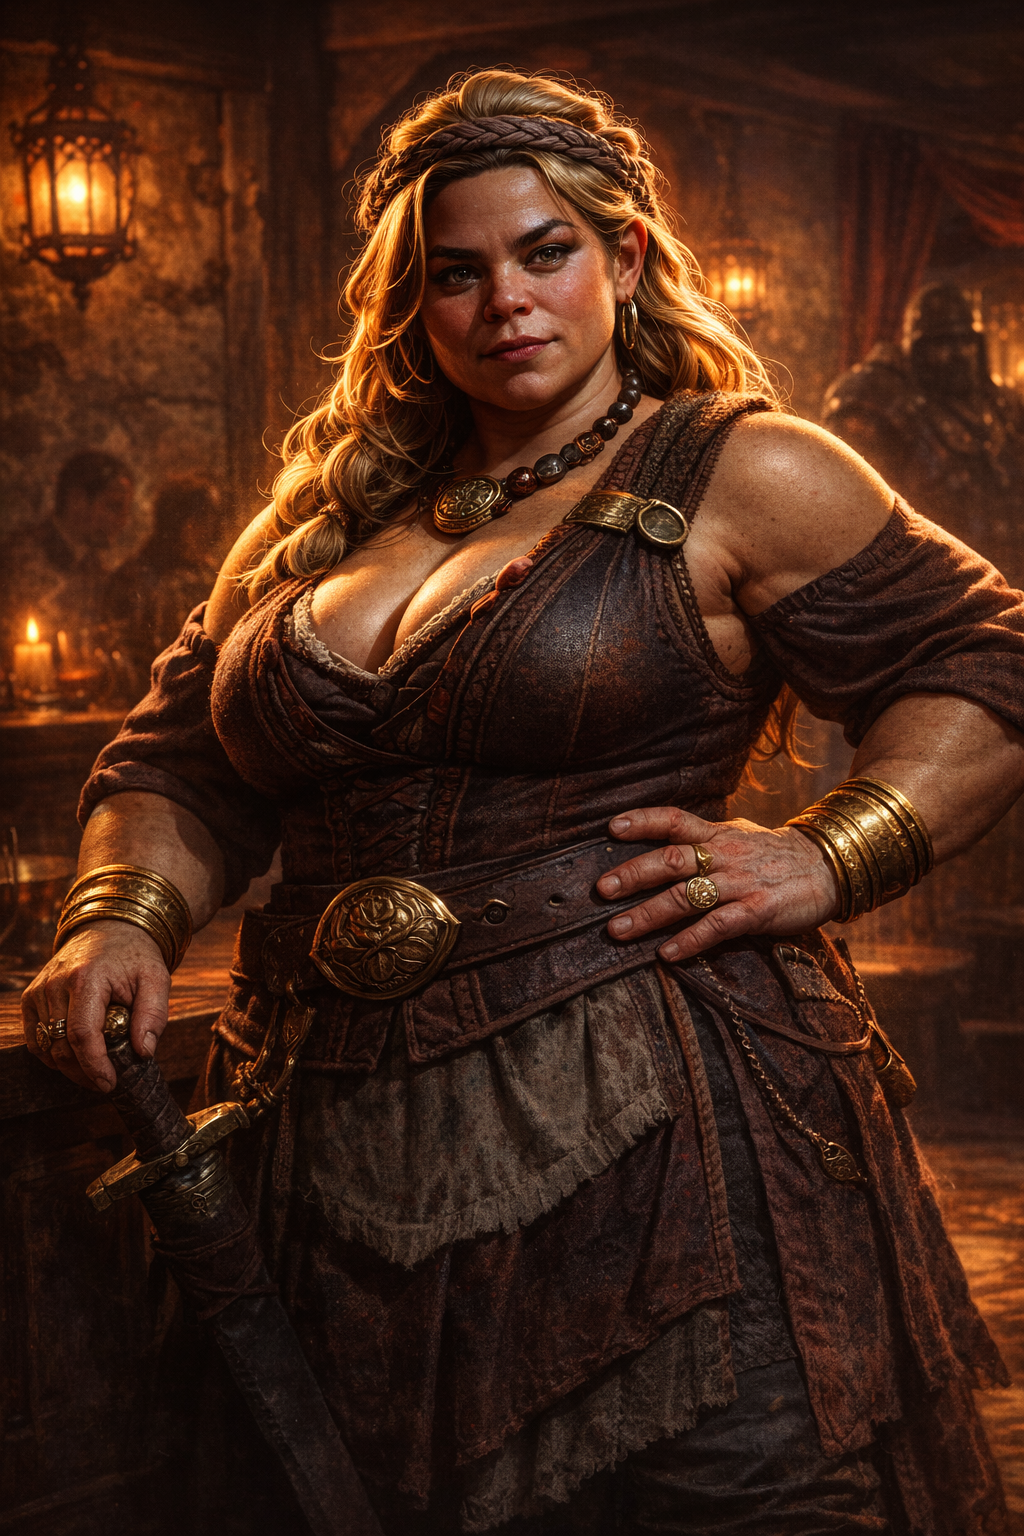
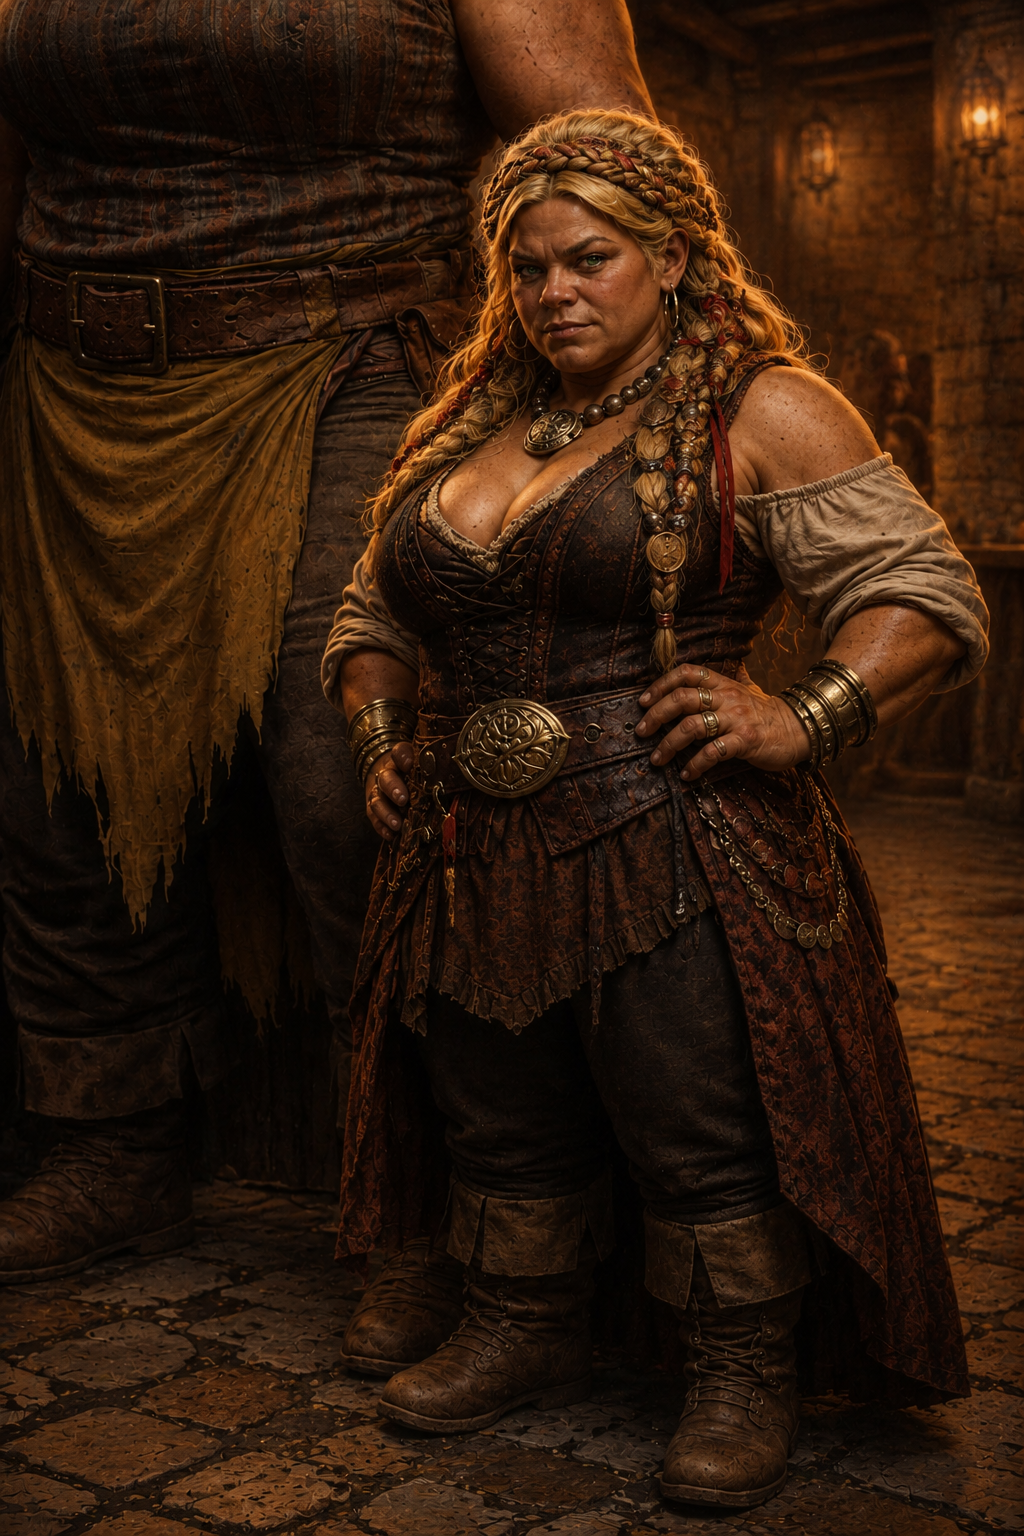
volika marda and iron rose updates

diff --git a/content/02_Characters/Commoners/Marda 'Keys' Venn.md b/content/02_Characters/Commoners/Marda 'Keys' Venn.md
@@ -1,0 +1,267 @@
+---
+title: Marda "Keys" Venn
+aliases:
+  - Marda Venn
+  - Keys
+  - Marda Keys
+type: npc
+category: supporting-character
+status: canon
+location: Bard's Gate
+district: The Dregs
+ancestry: Half-orc
+occupation:
+  - House Steward
+  - Manager
+affiliations:
+  - The Iron Rose
+tags:
+  - bards-gate
+  - dregs
+  - half-orc
+  - iron-rose
+  - manager
+  - former-slave
+related:
+  - "[[Volika Coinmane]]"
+  - "[[The Iron Rose]]"
+  - "[[Lily]]"
+---
+
+# Marda “Keys” Venn
+
+> “She bought my debt. Then she wrote the number down.
+>
+> “It stopped growing.
+>
+> “You may not understand how honest that felt.”
+
+## Overview
+
+**Marda “Keys” Venn** is the house steward and acting manager of the [[The Iron Rose|Iron Rose]].
+
+When [[Volika Coinmane]] is absent, Marda runs the establishment.
+
+Volika owns the house.
+
+Marda makes certain it survives the evening.
+
+She manages the rooms, staff, payroll, supplies, barred customers, healers, and the thousand daily problems created whenever money, drink, loneliness, and poor judgment are placed beneath the same roof.
+
+Everyone in the Iron Rose answers to Marda while Volika is away.
+
+That includes [[Lily]].
+
+---
+
+## Appearance
+
+
+
+Marda is a half-orc woman in her late thirties.
+
+She is tall, broad through the shoulders, and carries herself with the careful stillness of someone who learned young that visible anger gives other people something to use.
+
+Her hair is dark, streaked early with grey, and usually tied tightly behind her head.
+
+A heavy ring of keys hangs from her belt.
+
+It includes keys for:
+
+- guest rooms
+- staff quarters
+- storerooms
+- the cellar
+- the strongbox
+- the rear gate
+- the hidden shelter beneath the house
+
+The keys announce her before she speaks.
+
+This is usually enough.
+
+---
+
+## Background
+
+Marda was born enslaved.
+
+After escaping, she entered a relationship with a man who treated her freedom as an accounting error.
+
+He controlled her wages, claimed ownership of her debts, and used violence whenever arithmetic failed to produce obedience.
+
+Volika bought the debt.
+
+She wrote the exact amount into the Iron Rose ledger and gave Marda terms.
+
+The number did not increase.
+
+There were no invented penalties, interest charges, damaged-property fees, or sudden discoveries that freedom cost slightly more than expected.
+
+Marda paid it off.
+
+When the final coin was entered, Volika closed the account and told her she could leave.
+
+Marda stayed.
+
+Not because Volika rescued her.
+
+Because it was the first bargain in Marda’s life that ended when she fulfilled it.
+
+---
+
+## Personality
+
+Marda is controlled, practical, and difficult to provoke.
+
+She is less cynical than Volika, though this is not a particularly demanding moral achievement.
+
+She speaks quietly and expects people to listen the first time.
+
+Marda is:
+
+- patient with frightened workers
+- polite with customers
+- suspicious of sudden generosity
+- careful with money
+- merciless toward repeat offenders
+- deeply uncomfortable with Volika’s recruitment habits
+
+She does not openly challenge Volika often.
+
+When she does, Volika listens.
+
+Not because Marda outranks her.
+
+Because Marda rarely wastes an objection.
+
+---
+
+## Running the Iron Rose
+
+Marda knows:
+
+- every worker’s real name and working name
+- who may receive which customers
+- which patrons are barred
+- which employees need medicine
+- which rooms contain hidden bells
+- how much money may safely remain downstairs
+- who is frightened
+- who is lying
+- when Lily should intervene
+
+She has authority to:
+
+- close the house
+- refuse any customer
+- pay wages
+- summon the healer
+- hire temporary guards
+- relocate threatened workers
+- spend house funds during an emergency
+- order Lily to remove someone
+
+She cannot:
+
+- sell or mortgage the Iron Rose
+- alter long-term agreements
+- authorize major loans
+- hire senior staff permanently
+- overturn Volika’s standing word
+
+Volika trusts Marda because she protects the business.
+
+Marda protects the workers because she remembers what it feels like to be listed among the assets.
+
+---
+
+## Marda and Volika
+
+Marda does not call Volika kind.
+
+She calls her reliable.
+
+She understands that Volika made money from her desperation.
+
+She also understands that Volika kept the bargain exactly as written.
+
+Their relationship rests upon that uncomfortable foundation.
+
+Marda serves as one of the few people capable of telling Volika:
+
+> “That is a girl, not a prospect.”
+
+Volika may argue.
+
+She may roll her eyes.
+
+She may produce several technically accurate points concerning wages, hunger, and available choices.
+
+But she hears Marda.
+
+Sometimes that is enough.
+
+---
+
+## Marda and Lily
+
+Marda and Lily work with practiced efficiency.
+
+Marda decides what needs to happen.
+
+Lily makes it happen.
+
+Typical instructions include:
+
+> “The tall one leaves.”
+
+> “The woman stays.”
+
+> “No damage unless he reaches for steel.”
+
+Lily obeys Marda without hesitation while Volika is absent.
+
+She refers to her simply as **Keys**.
+
+---
+
+## Why She Is Called Keys
+
+The nickname comes from the iron ring at Marda’s waist.
+
+It also reflects her role within the house.
+
+Marda controls:
+
+- who enters
+- who leaves
+- which doors remain closed
+- which secrets remain locked away
+- who receives sanctuary
+
+Volika owns the Iron Rose.
+
+Marda holds the keys.
+
+---
+
+## Sample Dialogue
+
+> “You have paid for a room. You have not purchased the person inside it.”
+
+> “Volika is away. That makes me the final answer.”
+
+> “Lily, gently.”
+
+A pause.
+
+> “He has not drawn steel yet.”
+
+> “I know what the ledger says. I also know what happened.”
+
+> “Reliability is not kindness. Do not confuse the two.”
+
+> “The account is closed. Leave it closed.”
+
+> “No one sleeps in the street tonight. We can argue about the cost tomorrow.”

diff --git a/content/02_Characters/Commoners/Volika Coinmane.md b/content/02_Characters/Commoners/Volika Coinmane.md
@@ -515,7 +515,15 @@ Volika is part of the house’s security.
 Lily is the part customers notice first.
 
 ---
+### Marda “Keys” Venn
 
+[[Marda Keys Venn|Marda “Keys” Venn]] serves as house steward and acting manager of the Iron Rose.
+
+When Volika is away, Marda runs the rooms, staff, payroll, security, and daily business of the house. She holds full authority to refuse customers, close the doors, summon the healer, spend emergency funds, and direct [[Lily]].
+
+Volika trusts Marda because she protects the business.
+
+Marda protects the workers because she remembers what it feels like to be counted as part of one.
 # Information and Influence
 
 The Iron Rose hears a great deal.
